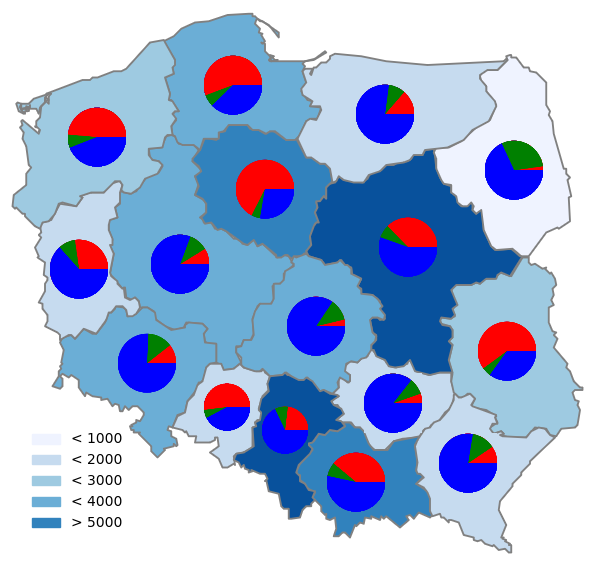
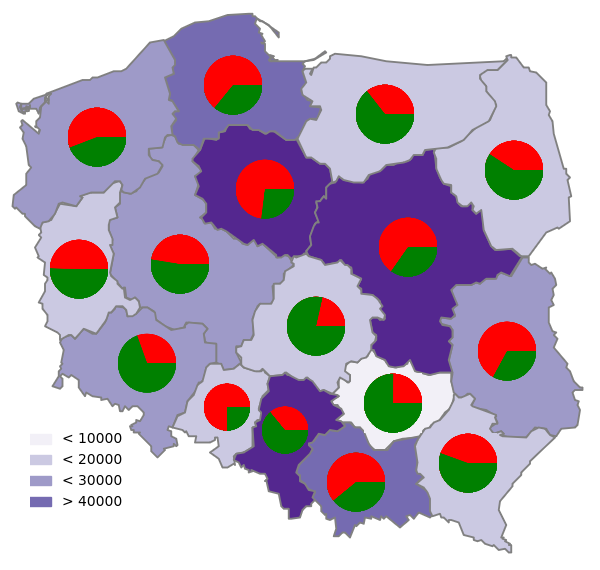
Add pie chart option in GUI

diff --git a/frontend.py b/frontend.py
@@ -1,18 +1,26 @@
-from tkinter import Tk, Label, Entry, StringVar, Button, PhotoImage, Frame, LEFT, BOTTOM, RIGHT, BOTH, X, OptionMenu
-from map_generator import Map, DataRead
+from tkinter.ttk import Label, Entry, Button, Frame, OptionMenu
+from tkinter.ttk import Scrollbar, Style
+from tkinter import Tk, StringVar, PhotoImage, LEFT, BOTTOM, RIGHT, BOTH, X, TOP, Y, END, Listbox
+from map_generator import Map
 from charts import add_charts
-from tkinter import ttk
+import pandas
+import os
 
 
 class App:
-    def __init__(self):
-        self.data = DataRead()
+    def __init__(self, master):
+        window = Frame(master)
+        window.pack()
+        self.data = DataRead.read_data()
 
-        window = Tk()
+        # Default data to display
+        self.column = self.data[list(self.data)[0]]
+        self.pie_chart_path = r"regions_data\pie_chart_data\\Produkcja i rozdysponowanie ciepła.xlsx"
 
-        style = ttk.Style()
-        style.theme_use("vista")
-        window.wm_title("Polish Regions Data Visualizer")
+        master.title("Polish Voivodeships Visualizer")
+
+        # ----------------------------------------------------
+        # FRAMES
 
         upperframe = Frame(window)
         upperframe.pack(expand=True, fill=X)
@@ -32,7 +40,16 @@ class App:
         rigth_bottom_frame = Frame(bottomframe)
         rigth_bottom_frame.pack(side=RIGHT)
 
-        l1 = ttk.Label(upperframe, text="Interval 1:")
+        rigth_bottom_frame_up = Frame(rigth_bottom_frame)
+        rigth_bottom_frame_up.pack(side=TOP)
+
+        rigth_bottom_frame_down = Frame(rigth_bottom_frame)
+        rigth_bottom_frame_down.pack(side=BOTTOM)
+
+        # ----------------------------------------------------
+        # INTERVALS LABELS AND ENTRIES
+
+        l1 = Label(upperframe, text="Interval 1:")
         l1.grid(row=0, column=0)
 
         l2 = Label(upperframe, text="Interval 2:")
@@ -49,23 +66,6 @@ class App:
 
         l6 = Label(upperframe, text="Interval 6:")
         l6.grid(row=1, column=4)
-
-        data_label = Label(dataframe, text="Current data:")
-        data_label.grid(row=0, column=0)
-
-        data_for_region = {}
-        for region in range(16):
-            data_for_region["d{}".format(region)] = self.data.column[region]
-        index = 0
-        for k, v in data_for_region.items():
-            k = Label(dataframe, text=v)
-            k.grid(row=index + 1, column=0)
-            dataframe.grid_rowconfigure(index + 1, minsize=34)
-            index += 1
-
-        self.map_image = PhotoImage(file="final_map.png")
-        self.label = Label(imageframe, image=self.map_image)
-        self.label.pack()
 
         self.interval1_value = StringVar()
         e1 = Entry(upperframe, textvariable=self.interval1_value, width=10)
@@ -91,32 +91,114 @@ class App:
         e6 = Entry(upperframe, textvariable=self.interval6_value, width=10)
         e6.grid(row=1, column=5)
 
+        colors = ("Green", "Blue", "Orange", "Red", "Purple", "Gray")
+        self.chosen_color = StringVar(rigth_bottom_frame_up)
+        self.chosen_color.set("Green")  # default value
+        w = OptionMenu(upperframe, self.chosen_color, *colors)
+        w.grid(row=0, column=6)
+
+        # ----------------------------------------------------
+        # LABELS FOR REGIONS CURRENT DATA
+
         for column in range(6):
             upperframe.grid_columnconfigure(column, minsize=126)
 
-        b1 = Button(rigth_bottom_frame, text="Generate map", width=10, command=self.generate_map)
+        data_label = Label(dataframe, text="Current data:")
+        data_label.grid(row=0, column=0)
+
+        data_for_region = {}
+        for region in range(16):
+            data_for_region["d{}".format(region)] = self.column[region]
+        index = 0
+
+        self.label_value_row= []
+        for k, v in data_for_region.items():
+            k = Label(dataframe, text=v)
+            k.grid(row=index + 1, column=0)
+            self.label_value_row.append(k)
+            dataframe.grid_rowconfigure(index + 1, minsize=34)
+            index += 1
+
+        # ----------------------------------------------------
+        # MAP DISPLAY LABEL
+
+        self.map_image = PhotoImage(file="final_map.png")
+        self.label = Label(imageframe, image=self.map_image)
+        self.label.pack()
+
+        # ----------------------------------------------------
+        # MAP CREATION TOOLS
+
+        sb1 = Scrollbar(rigth_bottom_frame_up)
+        sb1.pack(side=RIGHT, fill=Y)
+
+        self.list1 = Listbox(rigth_bottom_frame_up, width=40)
+        self.list1.pack(side=TOP)
+
+        columns_names = DataRead.read_columns()
+        for name in columns_names:
+            self.list1.insert(END, name)
+
+        self.list1.config(yscrollcommand=sb1.set)
+        sb1.config(command=self.list1.yview)
+
+        self.list1.bind('<<ListboxSelect>>', self.get_selected_name)
+
+        b1 = Button(rigth_bottom_frame_up, text="Generate map", command=self.generate_map)
         b1.pack()
 
-        b2 = Button(rigth_bottom_frame, text="Add pie charts", width=10, command=self.add_pie_charts)
+        # ----------------------------------------------------
+        # PIE CHARTS CREATION TOOLS
+
+        sb2 = Scrollbar(rigth_bottom_frame_down)
+        sb2.pack(side=RIGHT, fill=Y)
+
+        self.list2 = Listbox(rigth_bottom_frame_down, width=40)
+        self.list2.pack(side=TOP)
+
+        file_names = DataRead.give_pie_chart_files_names()
+        for name in file_names:
+            self.list2.insert(END, name)
+
+        self.list2.config(yscrollcommand=sb1.set)
+        sb2.config(command=self.list2.yview)
+
+        self.list2.bind('<<ListboxSelect>>', self.get_selected_name_pie_chart)
+
+        b2 = Button(rigth_bottom_frame_down, text="Add pie charts", width=10, command=self.add_pie_charts)
         b2.pack()
 
-        self.chosen_color = StringVar(rigth_bottom_frame)
-        self.chosen_color.set("Green")  # default value
-        colors = ("Green", "Blue", "Orange", "Red", "Purple", "Gray")
 
-        w = OptionMenu(rigth_bottom_frame, self.chosen_color, *colors)
-        w.pack()
 
-        window.mainloop()
+    def get_selected_name(self, event):
+        try:
+            index = self.list1.curselection()[0]
+            selected_name = self.list1.get(index)
+            self.column = self.data[selected_name]
+            for row, value in zip(self.label_value_row, self.column):
+                row['text'] = value
+    #        return selected_name
+        except IndexError:
+            pass
+
+    def get_selected_name_pie_chart(self, event):
+        try:
+            index = self.list2.curselection()[0]
+            selected_name = self.list2.get(index)
+            path = r"regions_data\pie_chart_data\\" + selected_name
+            print(path)
+            self.pie_chart_path = path
+        except IndexError:
+            pass
 
     def add_pie_charts(self):
-        add_charts()
+        add_charts(self.pie_chart_path)
         self.map_image = PhotoImage(file="final_map.png")
         self.label.config(image=self.map_image)
 
     def generate_map(self):
         final_intervals = self.get_intervals()
-        map = Map(self.data.column, final_intervals, self.chosen_color.get())
+        map = Map(self.column, final_intervals, self.chosen_color.get())
         self.map_image = PhotoImage(file="final_map.png")
         self.label.config(image=self.map_image)
 
@@ -134,4 +216,26 @@ class App:
         return final_intervals
 
 
-m1 = App()
+class DataRead:
+    # READ FILE
+    @staticmethod
+    def read_data():
+        data = pandas.read_excel(r"regions_data\data.xlsx")
+        return data
+
+    @staticmethod
+    def read_columns():
+        data = pandas.read_excel(r"regions_data\data.xlsx")
+        columns = list(data)
+        return columns
+
+    @staticmethod
+    def give_pie_chart_files_names():
+        files = [file for file in os.listdir(r"regions_data\pie_chart_data") if file.endswith(".xlsx")]
+        return files
+
+root = Tk()
+root.style = Style()
+root.style.theme_use("clam")
+m1 = App(root)
+root.mainloop()

diff --git a/charts.py b/charts.py
@@ -5,8 +5,8 @@ from bokeh.io import export_png
 import cv2
 
 
-def add_charts():
-    file = pandas.read_excel("cieplo.xlsx")
+def add_charts(path):
+    file = pandas.read_excel(path)
 
     names = ["Dolnośląskie", "Kujawsko-pomorskie", "Lubelskie",	"Lubuskie",	"Łódzkie", "Małopolskie",
      "Mazowieckie",	"Opolskie",	"Podkarpackie",	"Podlaskie", "Pomorskie",
@@ -22,7 +22,8 @@ def add_charts():
                 if "," in number:
                     number = number.replace(",", ".")
                 if " " in number:
-                    temp = number.split(" ", 1)
+                    m = number.count(" ")
+                    temp = number.split(" ", m)
                     final_number = "".join(temp)
                     region[index] = float(final_number)
                 else:
@@ -48,7 +49,9 @@ def add_charts():
         starts.append([p*2*pi for p in region[:-1]])
         ends.append([p * 2 * pi for p in region[1:]])
 
-    colors = ["red", "green", "blue"]
+    colors = ["red", "green", "blue", "yellow", "orange"]
+    colors_now = colors[:file.shape[0]]
+
     p = figure(x_range=(-1, 1), y_range=(-1, 1), width=200, height=200)
     p.background_fill_alpha = 1
     p.xgrid.grid_line_color = None
@@ -60,7 +63,6 @@ def add_charts():
     clr = background_colors.split(",")
     file.close()
 
-
     regions_to_paste_coords = (
         (118,333),(236,159),(478,321),(50,239),(287,296),(327,452),(379,217),(204,383),
         (439,433),(485,140),(204,55),(262,406),(364,373),(356,84),(151,234),(68,107)
@@ -69,7 +71,7 @@ def add_charts():
     for start, end in zip(starts, ends):
         map_without = cv2.imread('final_map.png')
         p.background_fill_color = clr[index]
-        p.wedge(x=0, y=0, radius=1, start_angle=start, end_angle=end, color=colors, alpha=1)
+        p.wedge(x=0, y=0, radius=1, start_angle=start, end_angle=end, color=colors_now, alpha=1)
 
         export_png(p, filename="chart.png")
 

diff --git a/map_generator.py b/map_generator.py
@@ -8,13 +8,6 @@ import matplotlib.patches as mpatches
 import matplotlib.pyplot as plt
 
 
-class DataRead:
-    def __init__(self):
-        # READ FILE
-        data = pandas.read_excel("power_test.xlsx")
-        self.column = list(data["Moc zainstalowana"])
-
-
 class Map:
     def __init__(self, data, intervals, color):
         super().__init__()
@@ -64,7 +57,6 @@ class Map:
                 color = color + ","
             file.write(color)
         file.close()
-
 
         # -----------------------------------------------------------------------------
         # MAP - GEOJSON
